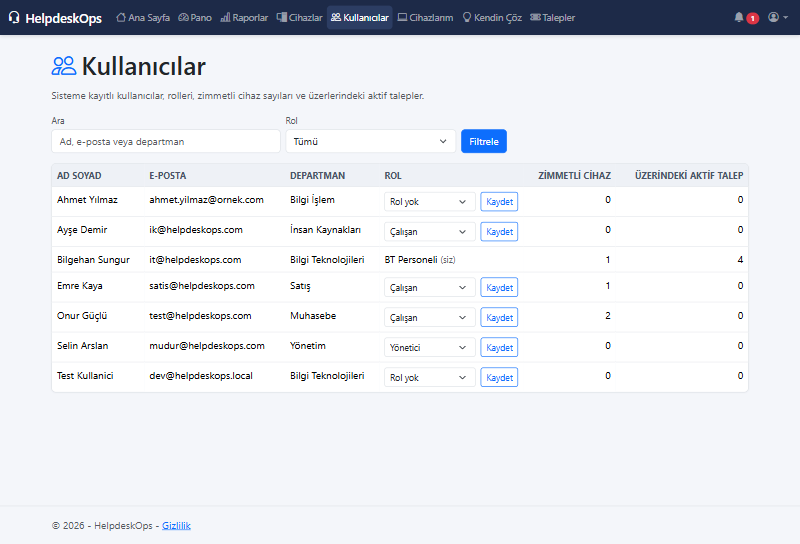
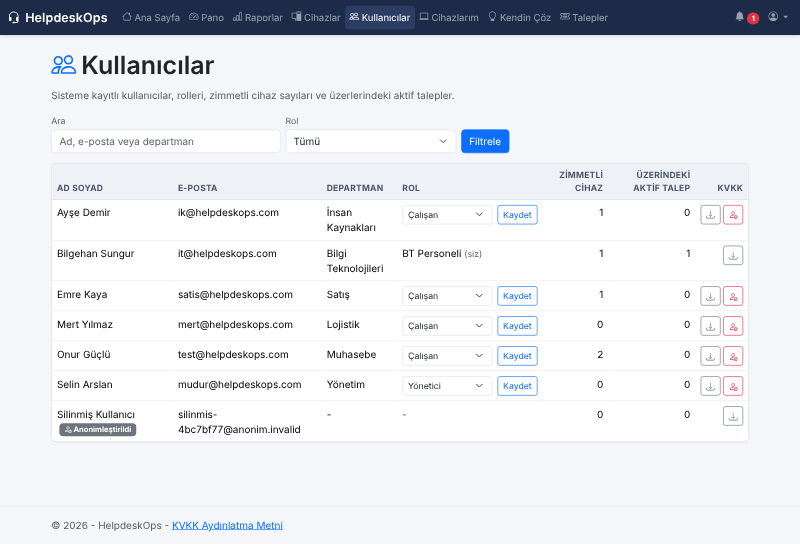
Document KVKK features
README.md and README.tr.md:
- Mark the KVKK roadmap item done and describe what it covers
- Mention the KVKK tests and the KVKK features in the project status
- Add a "KVKK" settings section with the data controller details, the
  notice version, and the retention periods, plus a note that the
  notice text needs legal review before going live

User guide:
- Add a "KVKK ve Kişisel Veriler" chapter with screenshots: privacy
  notice, "Kişisel Verilerim", anonymization, and retention periods
- Mention the new KVKK column on the user list, the new account page,
  and the KVKK entries in the audit log
- Refresh the user list screenshot

CLAUDE.md:
- Update the guide's coverage date and how screenshots are taken

Claude-Session: https://claude.ai/code/session_013iKkakPCXvQtTnshXozCmx

diff --git a/docs/USER_GUIDE_TR.md b/docs/USER_GUIDE_TR.md
@@ -16,6 +16,7 @@ HelpdeskOps, kurumsal bir BT ortamında cihaz envanterini ve destek taleplerini 
 10. [Kullanıcılar](#10-kullanıcılar)
 11. [Hesabım ve Güvenlik](#11-hesabım-ve-güvenlik)
 12. [Denetim Kaydı](#12-denetim-kaydı)
+13. [KVKK ve Kişisel Veriler](#13-kvkk-ve-kişisel-veriler)
 
 ## 1. Giriş ve Roller
 
@@ -255,6 +256,8 @@ Bir kullanıcının rolü, satırındaki listeden yeni rol seçilip **Kaydet** d
 - BT personeli rolünden çıkarılan kişinin aktif talepleri atanmamış taleplere alınır ve her talebin geçmişine kaydedilir.
 - Rol değişikliği, kullanıcının açık oturumunda en geç bir dakika içinde geçerli olur.
 
+**KVKK** sütunundaki düğmeler kişinin verilerini indirir ve ayrılan çalışanı anonimleştirir (bkz. [13. KVKK ve Kişisel Veriler](#13-kvkk-ve-kişisel-veriler)).
+
 Üst üste 5 kez hatalı şifre giren kullanıcının hesabı 15 dakikalığına kilitlenir ve listede **Kilitli** rozetiyle görünür. Telefonla arayan bir çalışan için **Kilidi aç** bağlantısı kilidi hemen kaldırır. İki adımlı doğrulamayı açmış kullanıcıların adının yanında **2FA** rozeti görünür.
 
 ## 11. Hesabım ve Güvenlik
@@ -264,6 +267,7 @@ Sağ üstteki kişi ikonundan **Hesabım** sayfası açılır (salt okunur demo 
 - **Profil**: e-posta ve telefon bilgisi.
 - **Şifre**: mevcut şifreyle yeni şifre belirlenir. Şifre en az 10 karakter olmalı; büyük harf, küçük harf, rakam ve özel karakter içermelidir.
 - **İki Adımlı Doğrulama**: girişte şifrenin yanında telefondaki doğrulama uygulamasının ürettiği 6 haneli kod da istenir.
+- **Kişisel Verilerim**: sizinle ilgili tutulan verileri indirme (bkz. [13.2](#132-kişisel-verilerim)).
 
 ![İki Adımlı Doğrulama Kurulumu](images/19-two-factor.png)
 
@@ -278,7 +282,7 @@ Bu sayfadan kurtarma kodları yenilenebilir, uygulama anahtarı sıfırlanabilir
 
 ## 12. Denetim Kaydı
 
-**Denetim Kaydı** yalnızca BT personeline açıktır ve kişi ikonundaki menüden açılır. Cihaz, talep, zimmet formu, çözüm makalesi, talep eki, kullanıcı ve rol değişikliklerinin her biri otomatik kaydedilir; kayıtlar değiştirilemez.
+**Denetim Kaydı** yalnızca BT personeline açıktır ve kişi ikonundaki menüden açılır. Cihaz, talep, zimmet formu, çözüm makalesi, talep eki, kullanıcı ve rol değişikliklerinin her biri otomatik kaydedilir; kayıtlar elle değiştirilemez. Yalnızca KVKK işlemleri (anonimleştirme ve saklama süreleri) kayıtlardaki kişisel bilgileri temizler.
 
 ![Denetim Kaydı](images/20-audit-log.png)
 
@@ -286,3 +290,61 @@ Bu sayfadan kurtarma kodları yenilenebilir, uygulama anahtarı sıfırlanabilir
 - Şifre değişiklikleri yalnızca "değiştirildi" olarak görünür; şifrenin kendisi ya da hash'i hiçbir zaman kaydedilmez.
 - Arama kutusu kişi, kayıt adı ve değerlerde arar; kayıt türü ve tarih aralığıyla süzülebilir. Liste sayfa başına 50 kayıt gösterir.
 - Cihaz ve talep ayrıntı sayfalarındaki **Denetim Kaydı** düğmesi yalnızca o kaydın geçmişini açar.
+- KVKK kapsamında yapılan veri indirmeleri **Dışa Aktarıldı** işlemiyle, günlük saklama süresi temizliği **Saklama Süresi** kayıt türüyle görünür.
+
+## 13. KVKK ve Kişisel Veriler
+
+HelpdeskOps, 6698 sayılı Kişisel Verilerin Korunması Kanunu (KVKK) için dört araç sunar: aydınlatma metni, kişinin kendi verilerini indirmesi, ayrılan çalışanın anonimleştirilmesi ve saklama sürelerinin otomatik uygulanması.
+
+### 13.1 Aydınlatma Metni
+
+Sayfanın altındaki ve giriş sayfasındaki **KVKK Aydınlatma Metni** bağlantısı, giriş yapmadan da okunabilen metni açar. Metin veri sorumlusunu, işlenen verileri, amaçları, hukuki sebepleri, aktarımı, saklama sürelerini ve KVKK'nın 11. maddesindeki hakları anlatır.
+
+![KVKK Aydınlatma Metni](images/21-privacy-notice.png)
+
+- Giriş yapan kullanıcı metnin güncel sürümünü onaylayana kadar sayfaların üstünde mavi bir uyarı görür. **Okudum, anladım** düğmesi onay tarihini kaydeder; bu kayıt, şirketin aydınlatma yükümlülüğünü yerine getirdiğinin kanıtıdır.
+- Kayıt formu metne bağlantı verir; kayıt olan kişinin onayı otomatik kaydedilir.
+- Şirket adı, adresi, başvuru e-postası ve metin sürümü `appsettings.json` içindeki `Kvkk` bölümünden değiştirilir. Sürüm yükseltildiğinde herkesten metni yeniden onaylaması istenir.
+
+### 13.2 Kişisel Verilerim
+
+**Hesabım → Kişisel Verilerim** sayfasındaki **Verilerimi İndir (JSON)** düğmesi, sizinle ilgili tutulan her şeyi tek bir dosyada indirir: hesap bilgileri, açtığınız ve size atanan talepler, yorumlarınız, yüklediğiniz dosyaların listesi, zimmetli cihazlarınız, zimmet formlarınız, bildirimleriniz ve denetim kaydındaki işlemleriniz. Şifre özeti, doğrulama anahtarı ve imza görüntüleri dosyaya konmaz.
+
+![Kişisel Verilerim](images/22-personal-data.png)
+
+Talepler ve zimmet formları şirket kayıtları olduğu için kullanıcı hesabını kendisi silemez. Silme talepleri BT ekibine iletilir.
+
+### 13.3 Kullanıcıyı Anonimleştirme (BT)
+
+Şirketten ayrılan ya da silme talebinde bulunan bir çalışan için BT personeli, **Kullanıcılar** sayfasındaki KVKK sütunundan iki işlem yapabilir:
+
+- **İndirme düğmesi**: kişinin verilerini, kendisinin indirebildiği dosyayla aynı biçimde indirir. Başvuruya cevap verirken kullanılır.
+- **Anonimleştir düğmesi**: onay sayfasını açar. Sayfa nelerin silineceğini ve nelerin kalacağını listeler.
+
+![Kullanıcıyı Anonimleştir](images/23-anonymize.png)
+
+Anonimleştirme geri alınamaz:
+
+- Ad, soyad, e-posta, telefon ve departman silinir. Hesap "Silinmiş Kullanıcı" adını alır, kalıcı olarak kilitlenir ve açık oturumları kapanır. Rolleri, iki adımlı doğrulaması ve bildirimleri silinir.
+- Talepler, yorumlar ve talep geçmişi "Silinmiş Kullanıcı" adıyla kalır. Denetim kaydındaki IP adresleri ile kişinin adının ve e-postasının geçtiği yerler temizlenir.
+- Zimmet formları cihaz teslimini kanıtladıkları için adı ve imzasıyla saklanır; saklama süresi dolunca bu bilgiler otomatik silinir.
+- Kişinin üzerinde cihaz, iade edilmemiş zimmet formu ya da aktif talep varsa işlem yapılmaz; sayfa önce ne yapılması gerektiğini söyler. Kimse kendi hesabını anonimleştiremez.
+- Anonimleştirilmiş kullanıcı listede **Anonimleştirildi** rozetiyle görünür ve cihaz atama ya da talep açma listelerinde çıkmaz.
+
+### 13.4 Saklama Süreleri (BT)
+
+Kişi ikonundaki menüden açılan **Saklama Süreleri** sayfası, kişisel verilerin ne kadar saklanacağını gösterir. Kurallar her gün otomatik uygulanır:
+
+| Veri | Süre | Süre dolunca |
+| --- | --- | --- |
+| Bildirimler | 6 ay | Silinir |
+| Talep ekleri | 2 yıl (talep çözüldükten veya kapatıldıktan sonra) | Dosyalar silinir, talep kalır |
+| Denetim kaydı IP adresleri | 2 yıl | IP adresi silinir, kayıt kalır |
+| Denetim kaydı | 10 yıl | Kayıt silinir |
+| Zimmet formları | 10 yıl (iadeden sonra) | Ad, departman, açıklama ve imzalar silinir; cihaz bilgileri kalır |
+
+![Saklama Süreleri](images/24-retention.png)
+
+- **Şu An Süresi Dolan** sütunu, bir sonraki çalışmada silinecek kayıt sayısını gösterir. **Şimdi Uygula** düğmesi günlük çalışmayı beklemeden kuralları hemen uygular.
+- **Son Çalışmalar** tablosu her çalışmada neyin silindiğini gösterir; aynı bilgi denetim kaydına da yazılır.
+- Süreler `appsettings.json` içindeki `Kvkk:Retention` bölümünden gün olarak değiştirilir; 0 o kuralı kapatır. Aydınlatma metnindeki tablo aynı ayarlardan oluşur.

diff --git a/README.tr.md b/README.tr.md
@@ -70,7 +70,7 @@ Bu proje, gerçek bir kurum içi BT operasyon platformunu simüle eder: donanım
 - [x] BT yöneticileri için kullanıcı yönetimi: rolleri, zimmetli cihazları ve aktif talepleriyle aranabilir kullanıcı listesi ve kullanıcı bazında rol değiştirme (kimse kendi rolünü değiştiremez; BT personeli rolünden çıkan birinin aktif talepleri atanmamış taleplere döner)
 
 ### Kalite
-- [x] SLA kurallarını, Türkiye saatini, CSV içe aktarmayı, imza doğrulamasını ve salt okunur demo ara katmanını kapsayan xUnit test projesi
+- [x] SLA kurallarını, Türkiye saatini, CSV içe aktarmayı, imza doğrulamasını, salt okunur demo ara katmanını, denetim kaydını ve KVKK dışa aktarma, anonimleştirme ve saklama süresi kurallarını kapsayan xUnit test projesi
 - [x] main'e her push'ta ve her pull request'te çözümü derleyip testleri çalıştıran GitHub Actions CI
 
 ### Arayüz
@@ -97,7 +97,7 @@ Bu proje, gerçek bir kurum içi BT operasyon platformunu simüle eder: donanım
 - [x] E-posta: uygulama içi her bildirim e-postayla da gider, şifre sıfırlama ve e-posta doğrulama çalışır, hepsi Türkçe (SMTP ya da yerelde `.eml` dosyaları)
 - [x] Hesap güvenliği: 5 hatalı şifrede 15 dakikalık kilit (BT kullanıcı listesinden kilidi açabilir), doğrulama uygulamasıyla iki adımlı giriş (QR kod ve kurtarma kodları), en az 10 karakterlik şifreler ve Türkçe "Hesabım" sayfası
 - [x] Denetim kaydı: cihaz, talep, zimmet formu, makale, ek, kullanıcı ve rollerdeki her değişiklik kim, ne zaman, hangi IP adresinden ve eski ile yeni değerleriyle otomatik kaydedilir (şifre hash'i asla saklanmaz); BT için filtrelenebilir, sayfalı bir ekran
-- [ ] KVKK: aydınlatma metni, saklama süreleri, kişisel verilerin dışa aktarılması ve silinmesi
+- [x] KVKK: okunduğu kaydedilen Türkçe aydınlatma metni, "Hesabım"da ve BT için kişisel veri indirme, talepleri ve zimmet formlarını koruyarak ayrılan çalışanın anonimleştirilmesi; bildirimler, ekler, denetim kaydı ve IP adresleri ile zimmet formu imzaları için her gün uygulanan saklama süreleri
 - [ ] Binlerce cihaz ve talep için sayfalama ve daha hızlı listeler
 - [ ] Kendi sunucusuna kurulum rehberi (IIS ve Docker) ve yedekleme planı
 
@@ -118,7 +118,7 @@ Bu proje, gerçek bir kurum içi BT operasyon platformunu simüle eder: donanım
 
 **Geliştirme sürüyor.** Çekirdek veri modelleri (`Device`, `Ticket`, `ApplicationUser`) ilişkileri ve doğrulamalarıyla tamamlandı; cihaz ve talep yönetim ekranları Türkçe arayüzle çalışıyor. Kullanıcılar ASP.NET Core Identity ile oturum açıyor. Çalışanlar önce self-servis çözüm bankasını deneyip ardından kendi taleplerini oluşturup takip ederken BT yöneticileri cihazları yönetip kullanıcılara zimmetliyor, her cihazın bakım geçmişini tutuyor, garanti ve servis bilgilerini takip ediyor, cihazların ping'e yanıt verip vermediğini görüyor, bilgisayarlara RDP ile bağlanıyor, cihazları Cisco switch portlarıyla eşliyor, çalışanlar adına talep açıyor, talepleri tek tıkla üstleniyor, atıyor, düzenliyor ve kapatıyor. Talepler kategori ve alt kategoriye (serbest metinli "Diğer" dahil) göre açılıyor; talep listesinde arama ve filtreleme yapılabiliyor. Talep eden ile BT personeli talep üzerinden yorumlarla yazışıyor; her talep durum, öncelik ve atanan kişi değişikliklerinin geçmişini tutuyor. BT yöneticileri ayrıca çözüm sürelerini, kronik sorunlu cihazları, departman iş yükünü ve garantisi biten cihazları gösteren bir panoya ve döneme göre talep rakamları, BT personeli performansı ve CSV dışa aktarma sunan bir raporlar sayfasına sahip. Yöneticiler tüm talepleri okuyabiliyor, panoyu ve raporları görebiliyor ama hiçbir şeyi değiştiremiyor.
 
-Bir cihaz zimmetlendiğinde çalışanın "Cihazlarım" sayfasından imzaladığı dijital bir zimmet formu açılıyor. Çalışanlar iade talebini imzayla gönderiyor; BT cihazı kontrol edip imzalayarak teslim alıyor. Her form imzalarıyla birlikte PDF olarak indirilebiliyor. BT yöneticileri kullanıcı rollerini kullanıcı listesinden yönetiyor. Mevcut yol haritasındaki tüm maddeler tamamlandı.
+Bir cihaz zimmetlendiğinde çalışanın "Cihazlarım" sayfasından imzaladığı dijital bir zimmet formu açılıyor. Çalışanlar iade talebini imzayla gönderiyor; BT cihazı kontrol edip imzalayarak teslim alıyor. Her form imzalarıyla birlikte PDF olarak indirilebiliyor. BT yöneticileri kullanıcı rollerini kullanıcı listesinden yönetiyor. KVKK için herkes aydınlatma metnini okuyup kendi verilerini indirebiliyor, BT ayrılan çalışanları anonimleştirebiliyor ve süresi dolan kişisel veriler her gün siliniyor.
 
 ---
 
@@ -182,6 +182,30 @@ Canlı demo MonsterASP.NET üzerinde çalışır ve Visual Studio'dan Web Deploy
 ```
 
 E-postalar kuyruğa alınıp arka planda gönderilir; yavaş ya da çalışmayan bir e-posta sunucusu sayfaları yavaşlatmaz. Uygulama içi her bildirim alıcısına e-postayla da gider. `Smtp` modunda yeni hesapların giriş yapmadan önce e-posta adresini doğrulaması gerekir ve giriş sayfasında şifre sıfırlama bağlantısı görünür.
+
+### KVKK
+
+`Kvkk` ayar bölümü, aydınlatma metninde görünen veri sorumlusu bilgilerini ve gün cinsinden saklama sürelerini tutar (0 kuralı kapatır). Metin her değiştiğinde `NoticeVersion` değerini yükseltin; böylece tüm kullanıcılardan metni yeniden onaylamaları istenir:
+
+```json
+{
+  "Kvkk": {
+    "NoticeVersion": "2026-10",
+    "ControllerName": "Örnek Teknoloji A.Ş.",
+    "ControllerAddress": "...",
+    "ContactEmail": "kvkk@example.com",
+    "Retention": {
+      "NotificationDays": 180,
+      "AttachmentDays": 730,
+      "AuditIpAddressDays": 730,
+      "AuditLogDays": 3650,
+      "AssignmentFormDays": 3650
+    }
+  }
+}
+```
+
+Aydınlatma metni bir başlangıç şablonudur, hukuki görüş değildir; canlıya almadan önce bir hukukçuya kontrol ettirin. Saklama kuralları uygulama açıldıktan bir dakika sonra ve ardından her gün çalışır (salt okunur demoda çalışmaz); BT bunları "Saklama Süreleri" sayfasından elle de çalıştırabilir.
 
 ### Demo Hesaplar
 

diff --git a/README.md b/README.md
@@ -70,7 +70,7 @@ This project simulates a real-world internal IT operations platform: tracking ha
 - [x] User management for IT admins: a searchable user list with roles, assigned devices, and active tickets, and a role change per user (nobody can change their own role; a former IT admin's active tickets go back to the unassigned pool)
 
 ### Quality
-- [x] xUnit test project covering SLA rules, Turkey time, CSV import, signature validation, and the read-only demo middleware
+- [x] xUnit test project covering SLA rules, Turkey time, CSV import, signature validation, the read-only demo middleware, the audit log, and the KVKK export, anonymization, and retention rules
 - [x] GitHub Actions CI that builds the solution and runs the tests on every push to main and every pull request
 
 ### Interface
@@ -97,7 +97,7 @@ The original roadmap is complete. The next phases target what a company asks bef
 - [x] E-mail: every in-app notification is also e-mailed, password reset and e-mail confirmation work, all in Turkish (SMTP, or `.eml` files locally)
 - [x] Account security: 15-minute lockout after 5 wrong passwords (IT can unlock from the user list), two-factor sign-in with an authenticator app (QR code and recovery codes), passwords of at least 10 characters, and a Turkish "Hesabım" page
 - [x] Audit log: every change to devices, tickets, zimmet forms, articles, attachments, users, and roles is recorded automatically with who, when, IP address, and old and new values (password hashes never stored), on a filterable, paged IT page
-- [ ] KVKK: privacy notice, retention periods, and export or deletion of a person's data
+- [x] KVKK: a Turkish privacy notice (aydınlatma metni) with recorded reading, a personal data download in "Hesabım" and for IT, anonymization of former employees that keeps tickets and zimmet forms, and daily retention periods for notifications, attachments, audit log entries and IP addresses, and zimmet form signatures
 - [ ] Paging and faster lists for thousands of devices and tickets
 - [ ] Self-hosted install guide (IIS and Docker) with a backup plan
 
@@ -118,7 +118,7 @@ The original roadmap is complete. The next phases target what a company asks bef
 
 **Actively in development.** Core data models (`Device`, `Ticket`, `ApplicationUser`) with relationships and validation are complete, and device and ticket management screens are working with a Turkish user interface. Users sign in with ASP.NET Core Identity. Employees first try the self-service solution bank, then create and track their own tickets, while IT admins manage devices, assign them to users, keep a lifecycle history for each device, track warranties and service contacts, see whether each device answers ping, open an RDP connection to computers, map devices to Cisco switch ports, open tickets on behalf of employees, take tickets with one click, and assign, edit, and close them. Tickets are filed under a category and subcategory (with a free-text "Other"), and the ticket list can be searched and filtered. Requesters and IT staff talk through ticket comments, and every ticket keeps a history of its status, priority, and assignee changes. IT admins also have a dashboard with resolution times, chronic problem devices, department workload, and expiring warranties, and a reports page with period-based ticket figures, IT staff performance, and a CSV export. Managers can read every ticket and see the dashboard and reports without changing anything.
 
-Assigning a device opens a digital zimmet form that the employee signs in "My Devices". Employees request returns with a signature, and IT checks the device and signs to receive it. Every form, with its signatures, can be downloaded as a PDF. IT admins manage user roles from the user list. Every item on the current roadmap is implemented.
+Assigning a device opens a digital zimmet form that the employee signs in "My Devices". Employees request returns with a signature, and IT checks the device and signs to receive it. Every form, with its signatures, can be downloaded as a PDF. IT admins manage user roles from the user list. For KVKK, everyone can read the privacy notice and download their own data, IT can anonymize former employees, and expired personal data is deleted every day.
 
 ---
 
@@ -182,6 +182,30 @@ The `Email` settings section picks how mail goes out. `Mode` is `None` (default,
 ```
 
 Mail is queued and sent in the background, so a slow or failing mail server never slows down a page. Every in-app notification is also mailed to its recipient. With `Smtp`, new accounts must confirm their e-mail address before signing in, and the sign-in page offers password reset.
+
+### KVKK
+
+The `Kvkk` settings section holds the data controller details shown on the privacy notice and the retention periods in days (0 turns a rule off). Raise `NoticeVersion` whenever the notice text changes, so every user is asked to read it again:
+
+```json
+{
+  "Kvkk": {
+    "NoticeVersion": "2026-10",
+    "ControllerName": "Örnek Teknoloji A.Ş.",
+    "ControllerAddress": "...",
+    "ContactEmail": "kvkk@example.com",
+    "Retention": {
+      "NotificationDays": 180,
+      "AttachmentDays": 730,
+      "AuditIpAddressDays": 730,
+      "AuditLogDays": 3650,
+      "AssignmentFormDays": 3650
+    }
+  }
+}
+```
+
+The privacy notice text is a starting point, not legal advice; have it reviewed before going live. The retention rules run a minute after startup and then daily (not on the read-only demo), and IT can run them from the "Saklama Süreleri" page.
 
 ### Demo Accounts
 

diff --git a/CLAUDE.md b/CLAUDE.md
@@ -37,4 +37,4 @@ IT inventory and helpdesk ticketing system: ASP.NET Core MVC (.NET 10), EF Core 
 - `docs/USER_GUIDE_TR.md` has screenshots. Update it when the UI changes visibly; batching at milestones is fine.
 
 ## Open items
-- None. `docs/USER_GUIDE_TR.md` covers every screen as of 2026-10-23; screenshots are 800px wide PNGs in `docs/images`.
+- None. `docs/USER_GUIDE_TR.md` covers every screen as of 2026-10-26; screenshots are 800x544 PNGs (a 1280x870 page scaled down) in `docs/images`.
